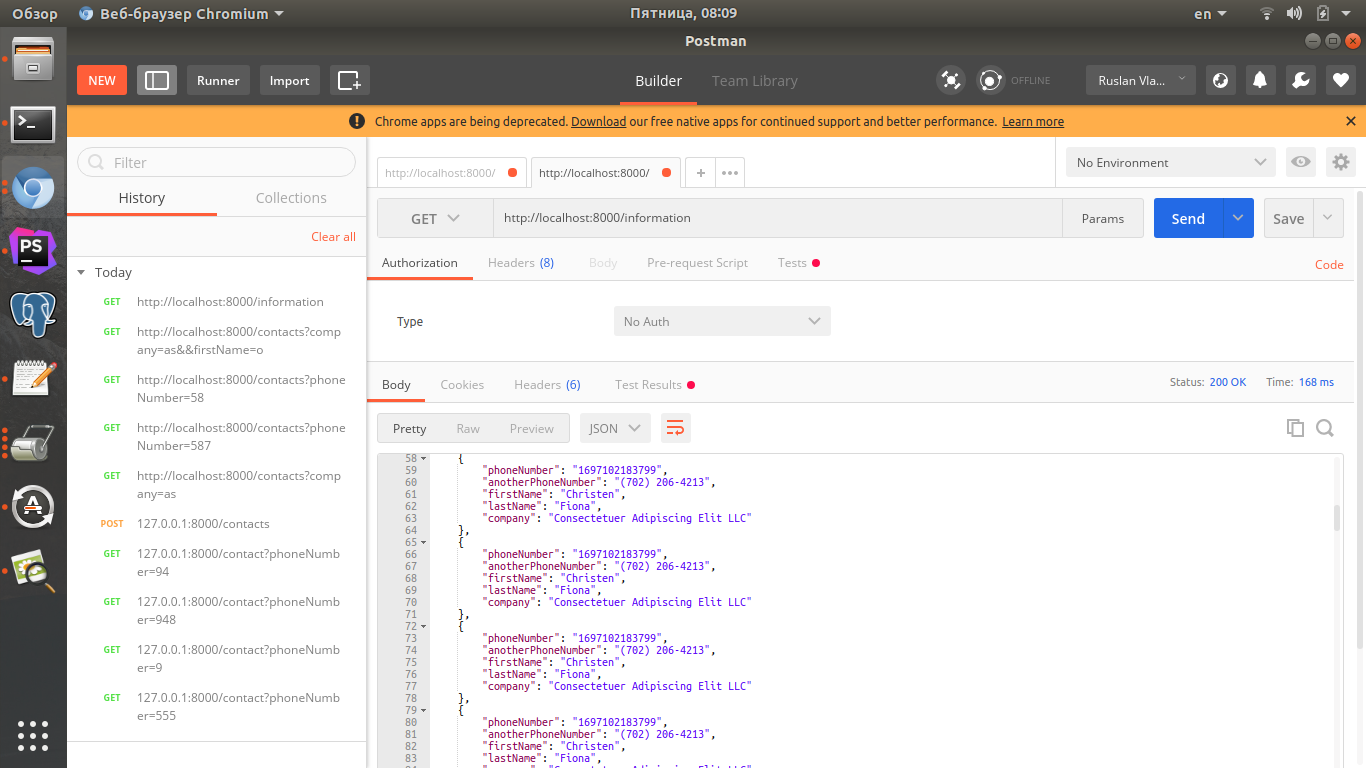
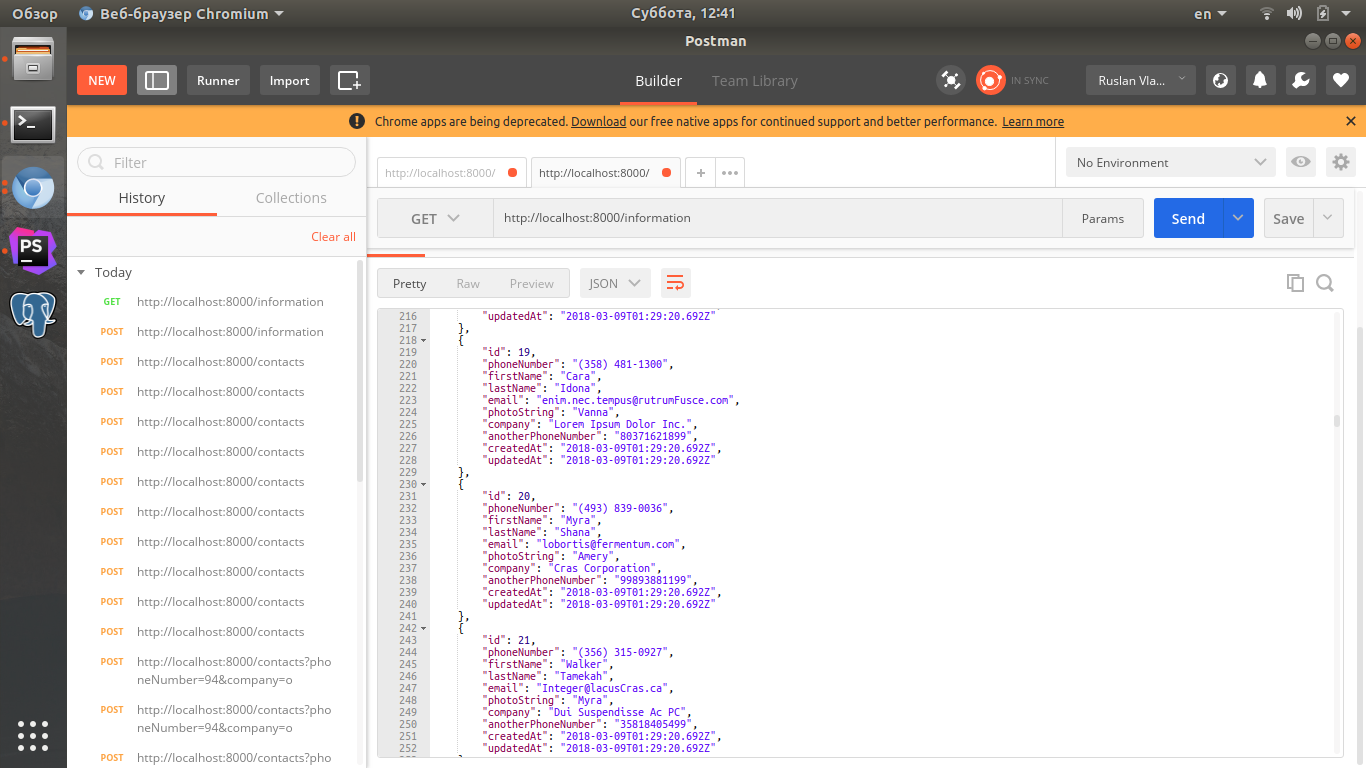
autoload

diff --git a/server/controllers/contacts.js b/server/controllers/contacts.js
@@ -4,8 +4,6 @@ module.exports = {
     create(req, res) {
         return Contact
             .create({
-
-                
                 phoneNumber: req.body.phoneNumber,
                 firstName: req.body.firstName,
                 lastName: req.body.lastName,
@@ -98,9 +96,7 @@ module.exports = {
     },
 
     phoneList(req, res) {
-        return Contact.findAll({
-            attributes: ['phoneNumber', 'anotherPhoneNumber', 'firstName', 'lastName', 'company'],
-        })
+        return Contact.findAll()
             .then((contacts) => res.status(200).send(contacts))
             .catch((error) => res.status(400).send(error));
     }

diff --git a/server/models/contact.js b/server/models/contact.js
@@ -1,6 +1,3 @@
-var Sequelize = require('sequelize');
-require('sequelize-isunique-validator')(Sequelize);
-
 module.exports = (sequelize, DataTypes) => {
     const Contact = sequelize.define('Contact', {
         phoneNumber: {

diff --git a/README.md b/README.md
@@ -1,12 +1,12 @@
-#This repo houses code for search the contacts  (using Sequelize)"
+# This repo houses code for search the contacts  (using Sequelize)"
 
 If you dont have install  node-js, please go this link [https://nodejs.org](https://nodejs.org)
 
-#Sequelize Setup
+# Sequelize Setup
 
 Let's begin by installing Sequelize CLI package. ```npm install -g sequelize-cli```
 
-#Project Setup
+# Project Setup
 
 1. Use command  ```npm install``` for install dependices
 2. Now try running the application by executing ```npm run start:dev```
@@ -15,22 +15,22 @@ You should see {"message":"Welcome to the beginning of nothingness."}
 3. Running the migrations to do this, we run the following command:  ```sequelize db:migrate```
 4. You can seed your database with this data by running this sequelize-cli command: ```sequelize db:seed:all```
 
-####under run project need use [postmean](https://www.getpostman.com/apps) or another application
+#### under run project need use [postmean](https://www.getpostman.com/apps) or another application
 
 
-######for get contacts all names the saved under one phone number, use example query [127.0.0.1:8000/contact?phoneNumber=94](127.0.0.1:8000/contact?phoneNumber=94)
+###### for get contacts all names the saved under one phone number, use example query [127.0.0.1:8000/contact?phoneNumber=94](127.0.0.1:8000/contact?phoneNumber=94)
 ![alt text](screenshots/get_scr.png?raw=true "get contacts all names")
 
 
-######for save array contacts use post query which is listed below
+###### for save array contacts use post query which is listed below
 ![alt text](screenshots/post.png "save array contacts").
 
 
-######transfer request, name or last name or company and get the most matching phone numbers. Example query [http://localhost:8000/contacts?phoneNumber=94&company=o](http://localhost:8000/contacts?phoneNumber=94&company=o)
+###### transfer request, name or last name or company and get the most matching phone numbers. Example query [http://localhost:8000/contacts?phoneNumber=94&company=o](http://localhost:8000/contacts?phoneNumber=94&company=o)
 ![alt text](screenshots/query_scr.png "save array contacts").
 
 
-######Get a list of phone numbers with information (name, surname, company), by key. Example query [http://localhost:8000/information](http://localhost:8000/information)
+###### Get a list of phone numbers with information (name, surname, company), by key. Example query [http://localhost:8000/information](http://localhost:8000/information)
 ![alt text](screenshots/phone.png "Get a list of phone numbers").
 
 
